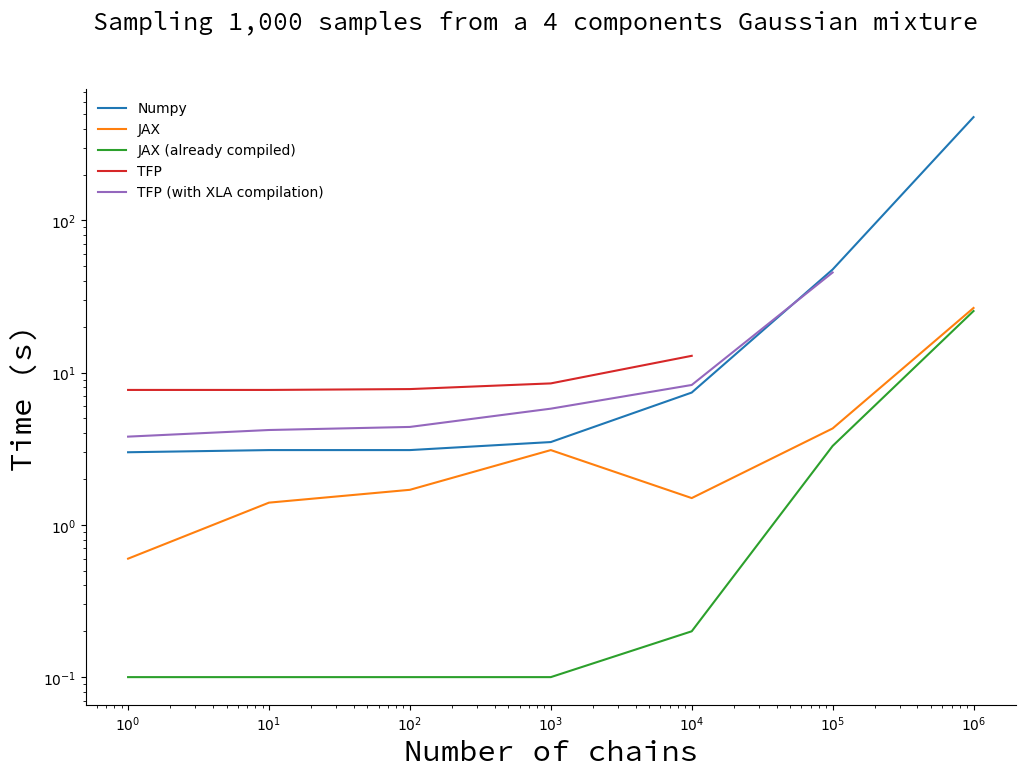
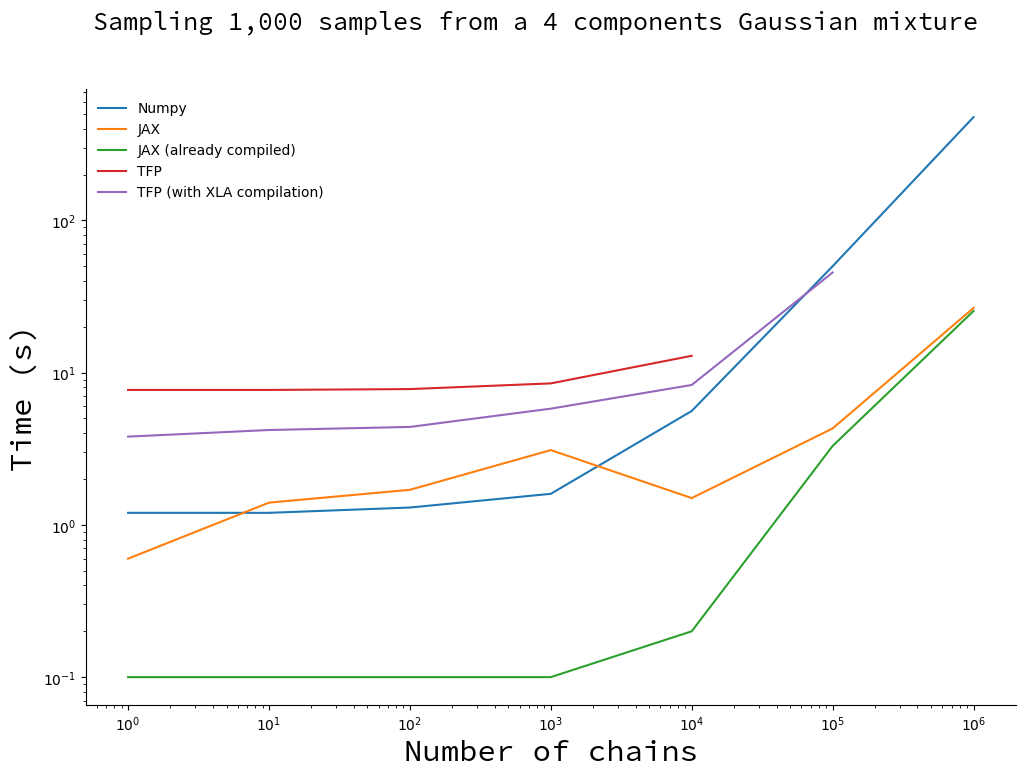
rebuilding site Fri 10 Jan 2020 05:35:30 PM CET

diff --git a/post/jax-random-walk-metropolis/index.html b/post/jax-random-walk-metropolis/index.html
@@ -36,23 +36,25 @@
       <time class="post-date" datetime="2019-01-09 13:19:11 CET">09 Jan 2019</time>
     </header>
 
-    <h2 id="tldr">TL;DR</h2>
-<p>JAX blows everyone out of the water, up to a factor of 20x in extreme cases
-(1,000 samples with 1,000,000 chains). Numpy wins in the small number of
-samples, small number of chains regime due to JAX's JIT compilation.  TFP with
-XLA compilation shines in the small number of chains, large number of samples
-regime. I must be doing something wrong with Tensorflow Probability as the
-numbers I get otherwise are very underwhelming.</p>
-<h2 id="introduction">Introduction</h2>
-<p>I recently got very excited about the possibility to generate thousands,
-millions of sampling chains with Monte Carlo algorithms. I vaguely followed
-several discussions around the topic</p>
-<p>I have seen here and there discussion about vectorized sampling algorithms that
-were able to generate hundreds, thousands of chains in one pass.</p>
-<p>Colin Caroll posted an interesting <a href="https://colindcarroll.com/2019/08/18/very-parallel-mcmc-sampling/">blog
+    <h1 id="tldr">TL;DR</h1>
+<p><strong>JAX blows everyone out of the water</strong>, by up to a factor of 20 in extreme
+cases (1,000 samples with 1,000,000 chains). Numpy wins in the small number of
+samples, small number of chains regime due to JAX's JIT compilation overhead. I
+report results for tensorflow probability (tfp), but keep in mind this is an
+unfair comparison since its implementation of random walk metroplis includes
+more bells and whistles than ours.</p>
+<p>The code necessary to reproduce the results can be found
+<a href="https://github.com/rlouf/blog-benchmark-rwmetropolis">here</a>. Tips to make the
+code run faster appreciated.</p>
+<h1 id="why-vectorized-mcmc">Why vectorized MCMC?</h1>
+<p>Colin Carroll recently posted an interesting <a href="https://colindcarroll.com/2019/08/18/very-parallel-mcmc-sampling/">blog
 post</a> that
-uses numpy and a vectorized version of the random walk metropolis-hastings
-(RWMH) algorithm to generate a large number of samples.</p>
+uses Numpy and a vectorized version of the random walk metropolis algorithm
+(RWMH) to generate a large number of samples.</p>
+<p>This got me very excited about the possibility to sample thousands, millions of
+chains in parallel with little added cost. Colin details a couple of possible
+applications, and I have the gut feeling that there is something bigger waiting
+around the corner. But this is or another post.</p>
 <p>Around the same time I stumbled upon <a href="http://github.com/jax/jax">JAX</a>.  Jax
 offers Just-in-Time compilation using <a href="">XLA</a>, inherits from autograd's autodiff
 functionality. It favours a functional style of programming which makes sense in
@@ -86,7 +88,7 @@ some place left for stickers on my laptop, btw!).</p>
     weights <span style="color:#f92672">=</span> np<span style="color:#f92672">.</span>repeat(np<span style="color:#f92672">.</span>array([[<span style="color:#ae81ff">0.2</span>, <span style="color:#ae81ff">0.3</span>, <span style="color:#ae81ff">0.1</span>, <span style="color:#ae81ff">0.4</span>]])<span style="color:#f92672">.</span>T, x<span style="color:#f92672">.</span>shape[<span style="color:#ae81ff">1</span>], axis<span style="color:#f92672">=</span><span style="color:#ae81ff">1</span>)
     <span style="color:#66d9ef">return</span> <span style="color:#f92672">-</span>logsumexp(np<span style="color:#f92672">.</span>log(weights) <span style="color:#f92672">-</span> log_probs, axis<span style="color:#f92672">=</span><span style="color:#ae81ff">0</span>)
 </code></pre></div><p>The code for all 3 frameworks is available in this <a href="">gist</a>.</p>
-<h2 id="notes-about-benchmarking">Notes about benchmarking</h2>
+<h1 id="notes-about-benchmarking">Notes about benchmarking</h1>
 <p>Before giving the results, a few words of caution:</p>
 <ol>
 <li>The reported times are the average of 10 runs on my laptop, with nothing
@@ -131,27 +133,13 @@ derivatives;</li>
 <p>Colin's MiniMC is an exercise in style, the simplest and most readable
 implementation of HMC I have seen. Probably thanks to the numpy backend.
 My numpy is implementation is an iteration upon his</p>
-<h2 id="setup-and-results">Setup and results</h2>
-<h3 id="numpy">Numpy</h3>
+<h1 id="setup-and-results">Setup and results</h1>
+<h2 id="numpy">Numpy</h2>
 <p>We implement the Random Walk Metropolis algorithm in the following,
 uncontroversial way:</p>
 <div class="highlight"><pre style="color:#f8f8f2;background-color:#272822;-moz-tab-size:4;-o-tab-size:4;tab-size:4"><code class="language-python" data-lang="python"><span style="color:#f92672">import</span> numpy <span style="color:#f92672">as</span> np
 
 <span style="color:#66d9ef">def</span> <span style="color:#a6e22e">rw_metropolis_sampler</span>(logpdf, initial_position):
-    <span style="color:#e6db74"></span><span style="color:#e6db74">&#34;&#34;&#34;</span><span style="color:#e6db74">Generate samples using the Random Walk Metropolis algorithm.</span><span style="color:#e6db74">
-</span><span style="color:#e6db74"></span><span style="color:#e6db74">
-</span><span style="color:#e6db74"></span><span style="color:#e6db74">    Attributes</span><span style="color:#e6db74">
-</span><span style="color:#e6db74"></span><span style="color:#e6db74">    ----------</span><span style="color:#e6db74">
-</span><span style="color:#e6db74"></span><span style="color:#e6db74">    logpdf: function</span><span style="color:#e6db74">
-</span><span style="color:#e6db74"></span><span style="color:#e6db74">      Returns the log-probability of the model given a position.</span><span style="color:#e6db74">
-</span><span style="color:#e6db74"></span><span style="color:#e6db74">    initial_position: np.ndarray, shape (n_dims, n_chains)</span><span style="color:#e6db74">
-</span><span style="color:#e6db74"></span><span style="color:#e6db74">      The initial position for each chain.</span><span style="color:#e6db74">
-</span><span style="color:#e6db74"></span><span style="color:#e6db74">
-</span><span style="color:#e6db74"></span><span style="color:#e6db74">    Yields</span><span style="color:#e6db74">
-</span><span style="color:#e6db74"></span><span style="color:#e6db74">    ------</span><span style="color:#e6db74">
-</span><span style="color:#e6db74"></span><span style="color:#e6db74">    np.ndarray, shape (,n_chains)</span><span style="color:#e6db74">
-</span><span style="color:#e6db74"></span><span style="color:#e6db74">      The next sample generated by the random walk metropolis algorithm.</span><span style="color:#e6db74">
-</span><span style="color:#e6db74"></span><span style="color:#e6db74">    </span><span style="color:#e6db74">&#34;&#34;&#34;</span>
     position <span style="color:#f92672">=</span> initial_position
     log_prob <span style="color:#f92672">=</span> logpdf(initial_position)
     <span style="color:#66d9ef">yield</span> position
@@ -161,13 +149,13 @@ uncontroversial way:</p>
         proposal <span style="color:#f92672">=</span> position <span style="color:#f92672">+</span> move_proposals
         proposal_log_prob <span style="color:#f92672">=</span> logpdf(proposal)
 
-        log_unif <span style="color:#f92672">=</span> np<span style="color:#f92672">.</span>log(np<span style="color:#f92672">.</span>random<span style="color:#f92672">.</span>rand(initial_position<span style="color:#f92672">.</span>shape[<span style="color:#ae81ff">0</span>], initial_position<span style="color:#f92672">.</span>shape[<span style="color:#ae81ff">1</span>]))
-        accept <span style="color:#f92672">=</span> log_unif <span style="color:#f92672">&lt;</span> proposal_log_prob <span style="color:#f92672">-</span> log_prob
+        log_uniform <span style="color:#f92672">=</span> np<span style="color:#f92672">.</span>log(np<span style="color:#f92672">.</span>random<span style="color:#f92672">.</span>rand(initial_position<span style="color:#f92672">.</span>shape[<span style="color:#ae81ff">0</span>], initial_position<span style="color:#f92672">.</span>shape[<span style="color:#ae81ff">1</span>]))
+        do_accept <span style="color:#f92672">=</span> log_uniform <span style="color:#f92672">&lt;</span> proposal_log_prob <span style="color:#f92672">-</span> log_prob
 
-        position <span style="color:#f92672">=</span> np<span style="color:#f92672">.</span>where(accept, proposal, position)
-        log_prob <span style="color:#f92672">=</span> np<span style="color:#f92672">.</span>where(accept, proposal_log_prob, log_prob)
+        position <span style="color:#f92672">=</span> np<span style="color:#f92672">.</span>where(do_accept, proposal, position)
+        log_prob <span style="color:#f92672">=</span> np<span style="color:#f92672">.</span>where(do_accept, proposal_log_prob, log_prob)
         <span style="color:#66d9ef">yield</span> position
-</code></pre></div><h3 id="jax">JAX</h3>
+</code></pre></div><h2 id="jax">JAX</h2>
 <div class="highlight"><pre style="color:#f8f8f2;background-color:#272822;-moz-tab-size:4;-o-tab-size:4;tab-size:4"><code class="language-python" data-lang="python"><span style="color:#f92672">from</span> functools <span style="color:#f92672">import</span> partial
 
 <span style="color:#f92672">import</span> jax
@@ -179,17 +167,15 @@ uncontroversial way:</p>
     proposal <span style="color:#f92672">=</span> position <span style="color:#f92672">+</span> move_proposals
     proposal_log_prob <span style="color:#f92672">=</span> logpdf(proposal)
 
-    log_unif <span style="color:#f92672">=</span> np<span style="color:#f92672">.</span>log(jax<span style="color:#f92672">.</span>random<span style="color:#f92672">.</span>uniform(rng_key, shape<span style="color:#f92672">=</span>position<span style="color:#f92672">.</span>shape))
-    accept <span style="color:#f92672">=</span> log_unif <span style="color:#f92672">&lt;</span> proposal_log_prob <span style="color:#f92672">-</span> log_prob
+    log_uniform <span style="color:#f92672">=</span> np<span style="color:#f92672">.</span>log(jax<span style="color:#f92672">.</span>random<span style="color:#f92672">.</span>uniform(rng_key, shape<span style="color:#f92672">=</span>position<span style="color:#f92672">.</span>shape))
+    do_accept <span style="color:#f92672">=</span> log_uniform <span style="color:#f92672">&lt;</span> proposal_log_prob <span style="color:#f92672">-</span> log_prob
 
-    position <span style="color:#f92672">=</span> np<span style="color:#f92672">.</span>where(accept, proposal, position)
-    log_prob <span style="color:#f92672">=</span> np<span style="color:#f92672">.</span>where(accept, proposal_log_prob, log_prob)
+    position <span style="color:#f92672">=</span> np<span style="color:#f92672">.</span>where(do_accept, proposal, position)
+    log_prob <span style="color:#f92672">=</span> np<span style="color:#f92672">.</span>where(do_accept, proposal_log_prob, log_prob)
     <span style="color:#66d9ef">return</span> position, log_prob
 
 
 <span style="color:#66d9ef">def</span> <span style="color:#a6e22e">rw_metropolis_sampler</span>(rng_key, logpdf, initial_position):
-    <span style="color:#e6db74"></span><span style="color:#e6db74">&#34;&#34;&#34;</span><span style="color:#e6db74">Vectorized Metropolis-Hastings.</span><span style="color:#e6db74">
-</span><span style="color:#e6db74"></span><span style="color:#e6db74">    </span><span style="color:#e6db74">&#34;&#34;&#34;</span>
     position <span style="color:#f92672">=</span> initial_position
     log_prob <span style="color:#f92672">=</span> logpdf(initial_position)
     <span style="color:#66d9ef">yield</span> position
@@ -213,7 +199,7 @@ not going to change when the function is run several times:
 <code>@partial(jax.jit, argnums=(0, 1))</code>. This is compulsory if you pass a
 function as an argument, and can enable further compile-time optimizations.</li>
 </ol>
-<h3 id="tensorflow-probability">Tensorflow Probability</h3>
+<h2 id="tensorflow-probability">Tensorflow Probability</h2>
 <p>For TFP we use the Random Walk Metropolis algorithm implemented in the library:</p>
 <div class="highlight"><pre style="color:#f8f8f2;background-color:#272822;-moz-tab-size:4;-o-tab-size:4;tab-size:4"><code class="language-python" data-lang="python"><span style="color:#f92672">from</span> functools <span style="color:#f92672">import</span> partial
 
@@ -241,15 +227,68 @@ run_mcm()
 
 <span style="color:#75715e">## With XLA compilation</span>
 tf<span style="color:#f92672">.</span>xla<span style="color:#f92672">.</span>experimental<span style="color:#f92672">.</span>compile(run_mcm)
-</code></pre></div><p><a href="/static/img/rw_benchmark/samples.png">Samples</a>
-<a href="/static/img/rw_benchmark/chains.png">Chains</a></p>
-<p>Numpy was a serious contender of Jax for RW Metropolis. However, there is one
-place where it cannot compete, situations where the gradient of the function is
-needed. Hamiltonian Monte Carlo!</p>
-<p>TFP must be doing some sort of step-size adaptation which may affect the
-performance in terms on time (but not sample quality).</p>
-<p>Better measure is Effective Sample / s but here we are just comaring raw
-performance. The numbers may shift, but the comparisons should still hold.</p>
+</code></pre></div><h2 id="results">Results</h2>
+<p>We have two variables in the problem: the number of samples or the number of
+chains. While the first relies on raw number crunching power, the second also
+relies on the way vectorization is encoded. I thus decided to benchmark
+algorithm on both dimensions.</p>
+<p>I consider the following cases:</p>
+<ol>
+<li>The pure numpy implementation;</li>
+<li>The JAX implementation;</li>
+<li>The JAX implementation without compilation time. This is a hypothetical situation, just to show the power of compilation;</li>
+<li>Tensorflow Probability;</li>
+<li>Tensorflow Probability with the experimental XLA compilation.</li>
+</ol>
+<h5 id="draw-an-increasing-number-of-samples-with-1000-chains">Draw an increasing number of samples with 1,000 chains</h5>
+<p>We first look at how the algorithms scale withe the number of samples taken.</p>
+<p><img src="/img/rw_benchmark/samples.png" alt="Samples"></p>
+<p>You will notice the missing point for TFP implementation. Since the TFP
+algorithm stores all the samples produced, it ran out of memory for large
+numbers of samples. This did not happen with the XLA-compiled version, probably
+because it uses memory-efficient data structures.</p>
+<p>For less than 1,000 samples the vanilla TFP and Numpy implementation are faster
+than their compiled counterparts. This is due to the compilation overhead: when
+you subtract the compilation time for JAX (green curve), it becomes faster by a
+large margin. Only when the number of samples becomes large and the total
+sampling time is dominated by the sampling time do you start to reap the
+benefits of compilation.</p>
+<p><em>There is no magic: JIT compilation implies a noticeable, but
+constant, computation overhead.</em></p>
+<p>I would recommend to go with JAX anyway. Sampling in .3 seconds instead of 3
+seconds only matters when this difference is going to be compounded by executing
+this piece of code more than ten times. However, compilation is something that
+only need to happen once; in this case the investment will be paid off before
+you reach 10 iterations. In practice, JAX still wins.</p>
+<h5 id="draw-1000-samples-with-an-increasing-number-of-chains">Draw 1,000 samples with an increasing number of chains</h5>
+<p>Here we fix the number of samples and make the number of chains vary.</p>
+<p><img src="/img/rw_benchmark/chains.png" alt="Chains"></p>
+<p>JAX is still a clear winner: it is faster than Numpy as soon as the number of
+chains reaches 10,000. You will note that there is a bump on the JAX curve, that
+is entirely due to compilation (the green curve does not have this bump). I do
+not have an explanation why, so ping me if you have the answer!</p>
+<p>Here's the mind-blowing highlight:</p>
+<blockquote>
+<p>JAX can generate a billion samples in 25s on CPU. 20 times faster than Numpy.</p>
+</blockquote>
+<h1 id="conclusion">Conclusion</h1>
+<p>For something that allows us to write code in pure python, JAX's performance is
+incredible. Numpy is somewhat of a serious contender, especially for the smaller
+numbers where most of JAX's execution time is spent compiling.</p>
+<p>However, Numpy is not suitable for a Probabilistic Programming Language. The
+implementation of efficient sampling algorithms like Hamiltonian Monte Carlo
+requires to compute the gradient of the probability density functions. JAX,
+however, between its performance and autodiff capabilities, has all it takes. No
+wonder Uber's team started working with JAX on <a href="https://github.com/pyro-ppl/numpyro">Numpyro</a>.</p>
+<p>Don't be disappointed by tensorflow probability's performance. When it comes to
+sampling from a distribution, what matters is not raw speed, but the number of
+effective samples per second. TFP's implementation includes more bells and
+whistles, and I would expect it to be way more competitive in terms of
+effective numbre of samples per second.</p>
+<p>Finally, note that it is way easier to scale by multiplying the number of chains
+than the number of samples. I have the gut feeling that once we discover what we
+can do with all these chains, pobabilistic programming will have another
+breakthrough.</p>
 
 
   </article>

diff --git a/css/journal.css b/css/journal.css
@@ -13,7 +13,8 @@ html {
       font-size: 1.125rem; } }
 
 body {
-  line-height: 1.6; }
+  line-height: 1.4;
+}
 
 html,
 body {
@@ -82,9 +83,10 @@ ul {
     margin-bottom: 0; }
 
 li {
-  margin: 0; }
+  margin: 0;
+  }
   li:not(last-of-type) {
-    margin-bottom: .4rem; }
+    margin-bottom: .2rem; }
 
 abbr {
   border-bottom: 1px dashed currentColor;
@@ -113,19 +115,23 @@ section {
   margin-bottom: 1rem; }
 
 h1 {
-  font-size: 1.875rem; }
+  margin: 1.5rem 0 1rem 0;
+  font-size: 2rem; }
 
-h2,
+h2 {
+}
 h3,
 h4,
 h5,
 h6 {
-  margin: 0 0 .5rem; }
+  margin: 0 0 .5rem 0; }
 
 h2 {
-  font-size: 2rem; }
+  margin: 1rem 0 .8rem 0;
+  font-size: 1.875rem; }
 
 h3 {
+  margin: 1rem 0 .5rem 0;
   font-size: 1.75rem; }
 
 h4 {
@@ -139,7 +145,7 @@ h6 {
 
 .container {
   width: 100%;
-  max-width: 38rem;
+  max-width: 42rem;
   margin: 0 auto;
   padding: .5rem; }
   @media screen and (min-width: 800px) {
